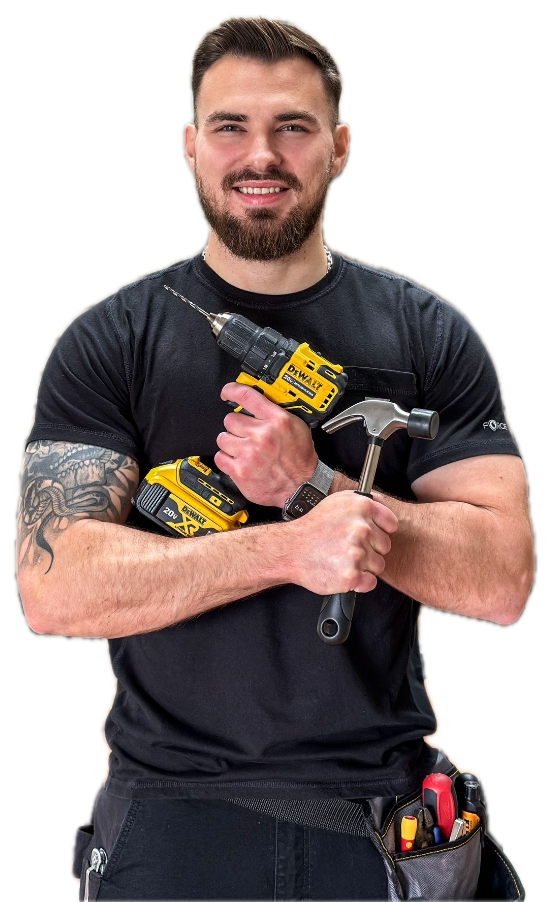
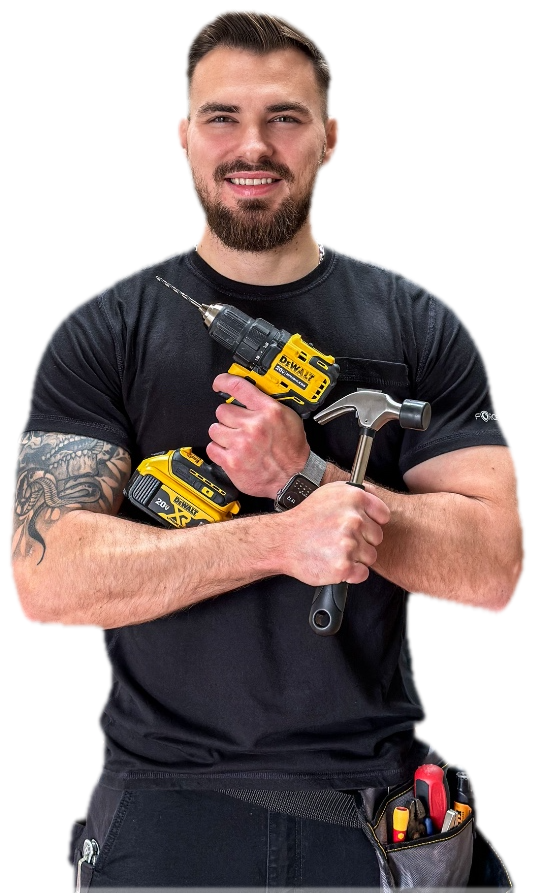
fix: remove dark edge fringe and CSS drop-shadow, position 250+ reviews badge by shoulder to leave face completely open

Changed region(s): [[0.0, 0.0, 0.9851, 1.0], [0.209, 0.8768, 0.2388, 0.9373]]

diff --git a/styles.css b/styles.css
@@ -569,7 +569,7 @@ button, input, select, textarea {
   z-index: 2;
   width: 100%;
   height: auto;
-  filter: drop-shadow(0 20px 30px rgba(15, 23, 42, 0.15));
+  filter: none;
 }
 
 /* Floating Badges */
@@ -579,7 +579,7 @@ button, input, select, textarea {
   display: flex;
   align-items: center;
   gap: 12px;
-  background: rgba(255, 255, 255, 0.92);
+  background: rgba(255, 255, 255, 0.94);
   backdrop-filter: blur(10px);
   padding: 10px 16px;
   border-radius: var(--radius-md);
@@ -588,16 +588,10 @@ button, input, select, textarea {
   animation: floatBadge 4s ease-in-out infinite alternate;
 }
 
-.badge-top-right {
-  top: 15%;
-  right: -10px;
+.badge-shoulder {
+  top: 50%;
+  right: -25px;
   animation-delay: 0s;
-}
-
-.badge-bottom-left {
-  bottom: 12%;
-  left: -15px;
-  animation-delay: 2s;
 }
 
 @keyframes floatBadge {
@@ -1767,12 +1761,9 @@ a.contact-channel-card:hover {
     max-width: 320px;
   }
 
-  .badge-top-right {
+  .badge-shoulder {
+    top: 52%;
     right: 0;
-  }
-
-  .badge-bottom-left {
-    left: 0;
   }
 
   .services-grid {

diff --git a/index.html b/index.html
@@ -165,20 +165,12 @@
             <div class="visual-glow" aria-hidden="true"></div>
             <img src="./handyman.png" alt="Alex - Next Level Home Services Handyman" class="hero-handyman-img">
             
-            <!-- Floating Trust Badges -->
-            <div class="floating-badge badge-top-right">
+            <!-- Floating Trust Badge (placed near shoulder, face is 100% open) -->
+            <div class="floating-badge badge-shoulder">
               <div class="floating-badge-icon pulse-icon">⭐</div>
               <div class="floating-badge-text">
                 <strong>250+ 5-Star Reviews</strong>
                 <span>Yelp • Thumbtack • TaskRabbit</span>
-              </div>
-            </div>
-
-            <div class="floating-badge badge-bottom-left">
-              <div class="floating-badge-icon">🛠</div>
-              <div class="floating-badge-text">
-                <strong>Top Rated Handyman</strong>
-                <span>San Diego County</span>
               </div>
             </div>
           </div>
